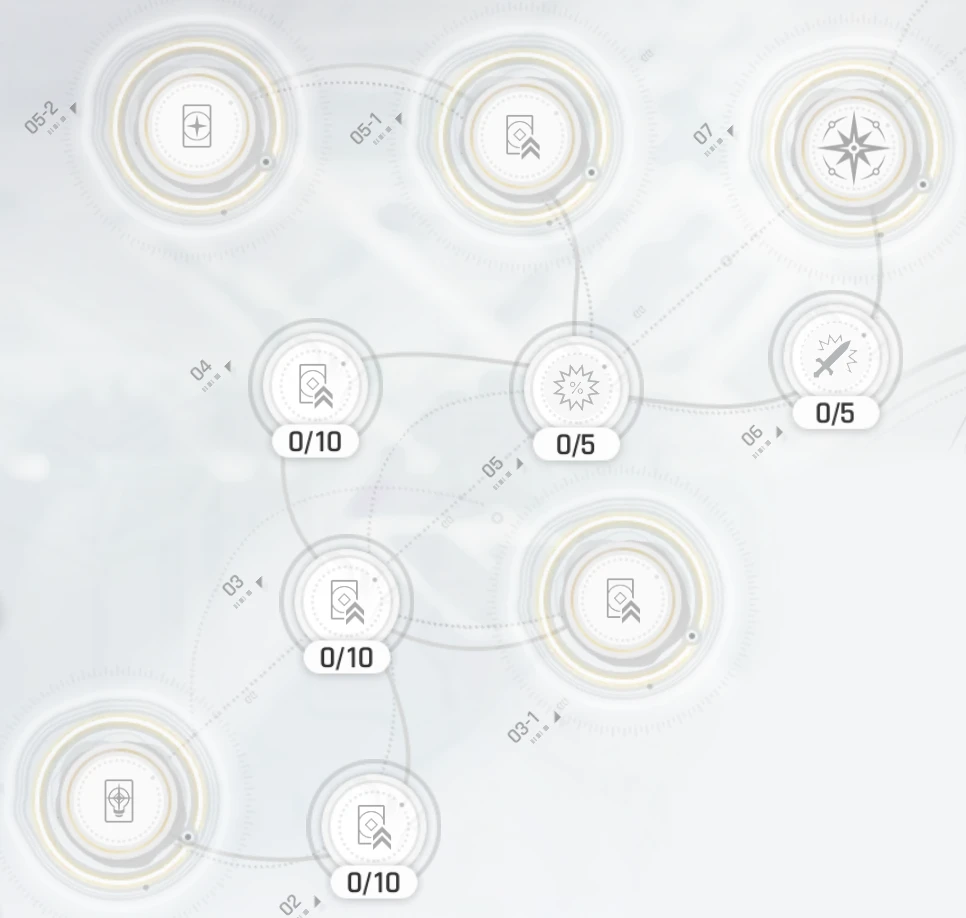
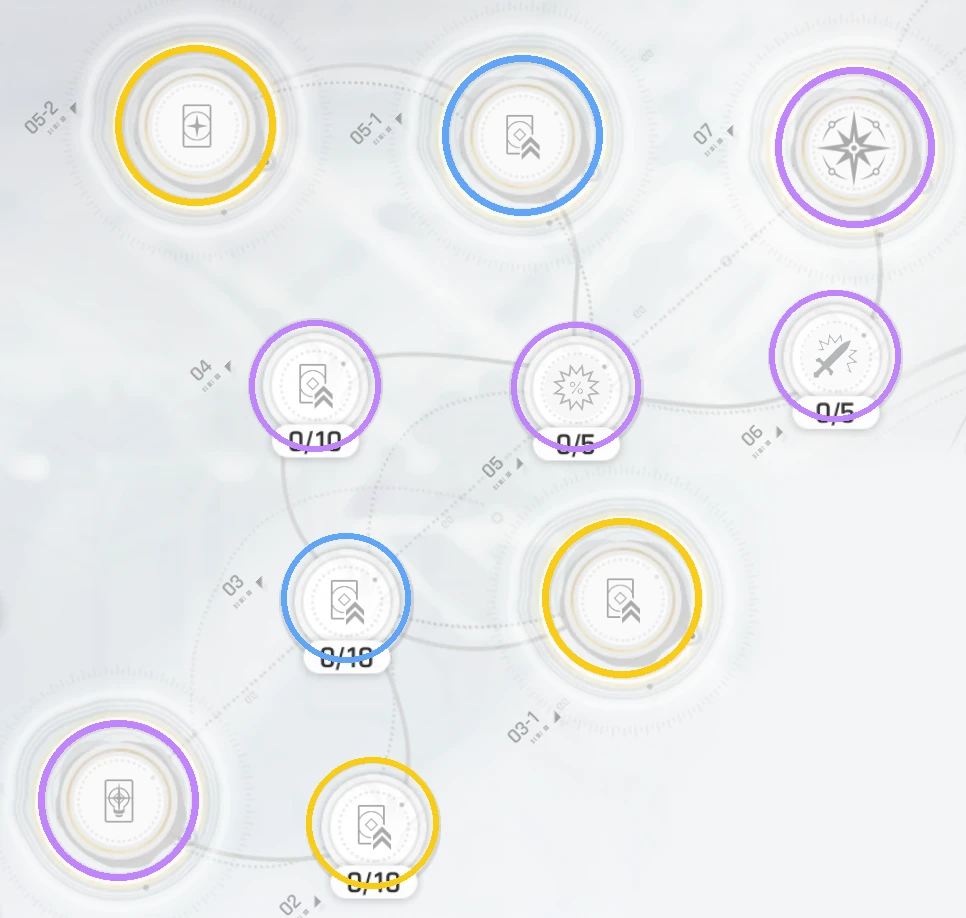
Colour the seven unread potentials trees from hand-marked rings

diff --git a/scripts/datagen/targets/guides.py b/scripts/datagen/targets/guides.py
@@ -342,6 +342,7 @@ def build(ctx: Context) -> TargetResult:
     decks = _DeckPictures()
     issues: list[Issue] = []
     section_fixes = _section_fixes(overrides.directives.get("_sections", {}), issues)
+    potential_colours = _potential_colours(overrides.directives.get("_potentials", {}), issues)
     files: dict[Path, bytes] = {}
     new_files: dict[Path, bytes] = {}
     guides: list[tuple[str, str, dict]] = []
@@ -367,6 +368,7 @@ def build(ctx: Context) -> TargetResult:
             "source": {"url": EDIT_URL.format(gid=gid), "label": {"en": SOURCE_LABEL}},
         }
         builder.icons = potential_overlay.variant_icons(potential_rows, str(res_id))
+        builder.potential_colours = potential_colours.get(tab_name)
         sections, updated = builder.sections(grid)
         if updated:
             guide["updated"] = updated
@@ -454,6 +456,30 @@ def _section_fixes(directive: dict[str, dict[str, str]], issues: list[Issue]) ->
             else:
                 issues.append(Issue("error", f"{NAME}: `_sections` puts {tab_name!r} band {title!r} on unknown page {page_id!r}"))
     return fixes
+
+
+def _potential_colours(directive: dict[str, dict[str, str]], issues: list[Issue]) -> dict[str, dict[str, str]]:
+    """
+    The `_potentials` directive without the nodes or colours the tree does not have.
+
+    Args:
+        directive: Tab -> node label -> ring colour, marked by hand.
+        issues: Updated in place with an error for each unknown node or colour.
+
+    Returns:
+        The usable entries, in the same shape.
+    """
+    nodes = potential_overlay.NodeMap.load(potential_overlay.NODES_PATH).nodes
+    marks: dict[str, dict[str, str]] = {}
+    for tab_name, colours in directive.items():
+        for label, colour in colours.items():
+            if label not in nodes:
+                issues.append(Issue("error", f"{NAME}: `_potentials` marks unknown node {label!r} on {tab_name!r}"))
+            elif colour not in potential_overlay.RING_COLOURS:
+                issues.append(Issue("error", f"{NAME}: `_potentials` gives {tab_name!r} node {label!r} unknown colour {colour!r}"))
+            else:
+                marks.setdefault(tab_name, {})[label] = colour
+    return marks
 
 
 def _cards_by_owner(ctx: Context) -> dict[str, list[str]]:
@@ -817,6 +843,8 @@ class _GuideBuilder:
         self.trees: dict[str, bytes] = {}
         # Node label -> icon name for the character's two stat nodes, set by `build`.
         self.icons: dict[str, str] = {}
+        # Node label -> ring colour marked by hand in the `_potentials` override, set by `build`. Used instead of reading the author's picture.
+        self.potential_colours: dict[str, str] | None = None
         # File name -> picture, for the wide strips this guide shows as image blocks.
         self.strips: dict[str, _Download] = {}
         # For the QC report: the cells of dropped icons, of pictures given a card by the run they sit in, and the note lines placed by their number.
@@ -917,9 +945,9 @@ class _GuideBuilder:
             author: The author's tree picture, or None when the tab has none.
 
         Returns:
-            The file name of the tree, which is kept in `trees`, and whether the author's ring colours were read.
+            The file name of the tree, which is kept in `trees`, and whether it has ring colours, read or marked by hand.
         """
-        picture, coloured = potential_overlay.build(author, self.icons)
+        picture, coloured = potential_overlay.build(author, self.icons, self.potential_colours)
         name = f"{self.guide_slug}-tree.webp"
         buffer = io.BytesIO()
         picture.save(buffer, "WEBP", quality=POTENTIALS_QUALITY)

diff --git a/tests/scripts/datagen/test_guides.py b/tests/scripts/datagen/test_guides.py
@@ -523,6 +523,20 @@ def test_potentials_picture_that_does_not_register_gets_the_clean_tree():
     assert builder.trees["tab-tree.webp"][:4] == b"RIFF"
 
 
+def test_hand_marked_potentials_colour_the_tree():
+    builder = _builder(picture_size=(371, 318))
+    builder.potential_colours = {"04": "gold"}
+    [section], _ = builder.sections(_potentials_grid())
+    assert section["blocks"][0]["coloured"] is True
+
+
+def test_hand_marked_potentials_drop_unknown_nodes_and_colours():
+    issues = []
+    colours = guides._potential_colours({"Nia": {"04": "gold", "99": "blue", "05": "red"}}, issues)
+    assert colours == {"Nia": {"04": "gold"}}
+    assert [issue.message for issue in issues] == ["guides: `_potentials` marks unknown node '99' on 'Nia'", "guides: `_potentials` gives 'Nia' node '05' unknown colour 'red'"]
+
+
 def test_potentials_legend_keeps_other_wording_and_extra_lines():
     legend = "Purple: Main Identity Boost\nGold: QOL\nBlue: Irrelevant usually\nNothing is THAT important"
     [section], _ = _builder().sections(_potentials_grid(legend=legend))

diff --git a/scripts/datagen/potential_overlay.py b/scripts/datagen/potential_overlay.py
@@ -348,16 +348,17 @@ def draw(clean: Image.Image, nodes: NodeMap, colours: dict[str, str | None], ico
     return out
 
 
-def build(author: Image.Image | None, icons: dict[str, str]) -> tuple[Image.Image, bool]:
+def build(author: Image.Image | None, icons: dict[str, str], marked: dict[str, str] | None = None) -> tuple[Image.Image, bool]:
     """
     Build one character's tree picture.
 
     Args:
         author: The author's tree picture, or None when the guide has none.
         icons: Node label -> icon name for this character, from `variant_icons()`.
+        marked: Node label -> colour, marked by hand. Used instead of reading the author's picture.
 
     Returns:
         The tree and whether it has colours. A missing, too small or unregistered author picture gives the tree with its icons and no rings.
     """
-    colours = sample(author) if author is not None else None
+    colours = marked or (sample(author) if author is not None else None)
     return draw(_clean(), _nodes(), colours or {}, icons), colours is not None

diff --git a/tests/scripts/datagen/test_potential_overlay.py b/tests/scripts/datagen/test_potential_overlay.py
@@ -104,6 +104,13 @@ def test_build_falls_back_to_the_clean_tree_without_colours():
     assert coloured is False
 
 
+def test_build_uses_hand_marked_colours_over_the_picture():
+    tree, coloured = po.build(None, {}, {"04": "gold"})
+    assert coloured is True
+    cx, cy, r = NODES.centre("04", CLEAN.size)
+    assert tree.convert("RGB").getpixel((round(cx + r - 2), round(cy))) == po.RING_COLOURS["gold"]
+
+
 def test_build_colours_a_registered_picture():
     tree, coloured = po.build(_author({"04": (170, 60, 190)}), {"05": "crit_chance", "06": "crit_damage"})
     assert coloured is True
